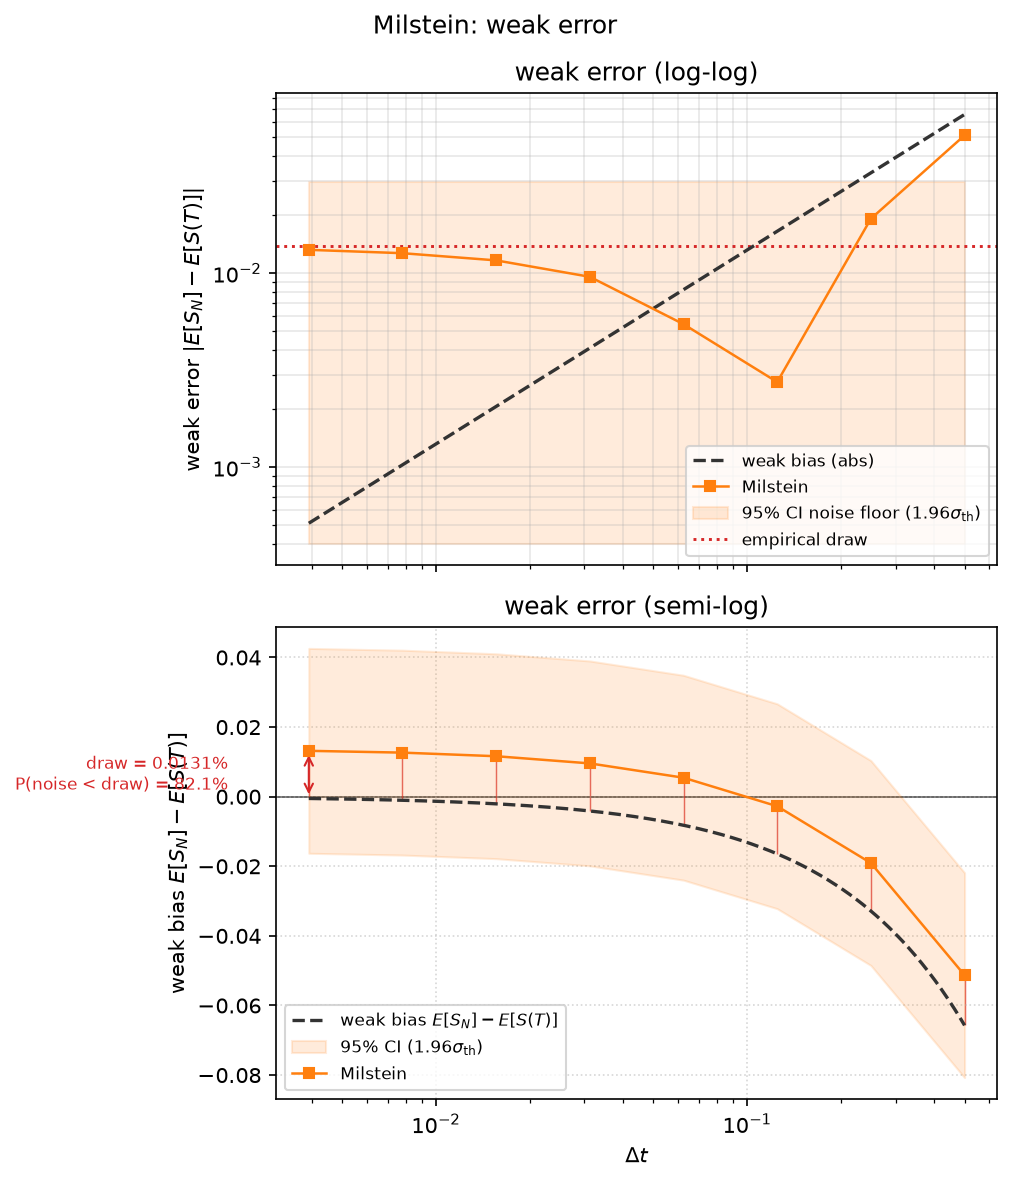
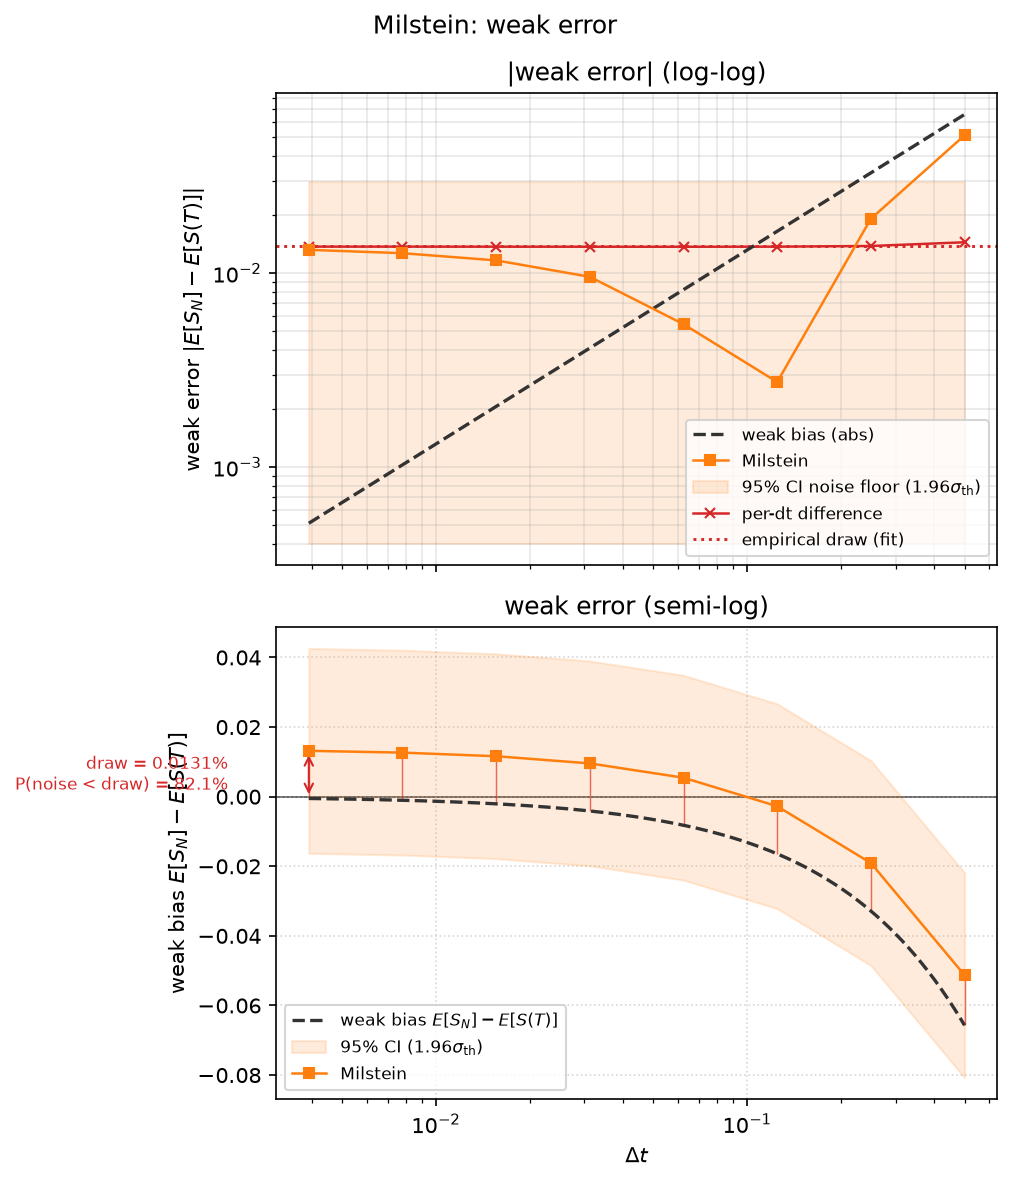
minor changes on exp1 plot logic

Changed region(s): [[0.6739, 0.3347, 0.9802, 0.4565], [0.6433, 0.0304, 0.7658, 0.0913]]

diff --git a/code/visualizations/weak_convergence.py b/code/visualizations/weak_convergence.py
@@ -20,9 +20,13 @@ expression) keeps the bias a clean power law on the semi-log and log-log axes.
 
 The table's sample means ``S_N`` sit a random offset above this curve; because one
 shared Brownian motion drives every step size (the ``extract_dw`` coarsening), that
-offset is essentially a single draw of the Monte-Carlo error, reported as a
-percentage of ``S_T`` ("% draw"). The 95% confidence interval instead uses the
-*theoretical* standard deviation of the sample-mean estimator,
+offset is essentially a single draw of the Monte-Carlo error. Rather than collapse
+it to one scalar, the difference ``b_obs(dt) - b(dt)`` is evaluated at every step
+size, projected onto the log-log axis and connected; a horizontal line is then
+fitted through it (least squares in log space, i.e. the geometric mean of
+``|resid|``), and that fitted level is the reported draw, given as a percentage of
+``S_T`` ("% draw"). The 95% confidence interval instead uses the *theoretical*
+standard deviation of the sample-mean estimator,
 
     sigma_th  = sqrt(Var(S(T))) / sqrt(n_paths),
     Var(S(T)) = S0^2 exp(2 mu T) (exp(sigma^2 T) - 1),
@@ -36,7 +40,8 @@ Outputs, for each scheme (Euler-Maruyama, Milstein), three figures to
     * ``exp1_gbm_weak_semilog_<method>.png``  -- weak error on a semi-log
       (log x, linear y) axis, with the 95% CI band and the bias curve;
     * ``exp1_gbm_weak_loglog_<method>.png``   -- |weak error| on a log-log axis,
-      with the 95% CI shaded in the scheme's color and the empirical draw line;
+      with the 95% CI shaded in the scheme's color, the per-dt differences
+      connected, and their horizontal fit (the empirical draw);
     * ``exp1_gbm_weak_combined_<method>.png`` -- the two panels stacked, sharing
       the dt x-axis.
 """
@@ -110,10 +115,18 @@ def theoretical_sigma(S0=S0, mu=MU, sigma=SIGMA, T=T, n_paths=N_PATHS):
     return float(np.sqrt(var / n_paths))
 
 
-def empirical_noise(b_obs, b):
-    """RMS of the observed-minus-bias residual (the single shared MC draw)."""
+def empirical_draw(b_obs, b):
+    """Per-dt Monte-Carlo difference and its log-log horizontal fit.
+
+    ``b_obs(dt) - b(dt)`` is evaluated at every step size; a single shared
+    Brownian motion drives all of them, so they are one MC draw. Projecting the
+    absolute differences onto the log-log axis and fitting a horizontal line
+    (least squares in log space) gives the draw level as the geometric mean of
+    ``|resid|``. Returns ``(resid, draw)``.
+    """
     resid = np.asarray(b_obs) - np.asarray(b)
-    return float(np.sqrt(np.mean(resid ** 2)))
+    draw = float(np.exp(np.mean(np.log(np.abs(resid)))))
+    return resid, draw
 
 
 def prob_noise_less_than(sigma_noise, sigma_th):
@@ -133,7 +146,7 @@ def _bias_curve(dt):
     return dt_fine, weak_bias(dt_fine)
 
 
-def _draw_semilog(ax, dt, b, b_obs, w, name, sigma_noise, S_T):
+def _draw_semilog(ax, dt, b, b_obs, w, name, draw, S_T):
     """Signed weak bias for one scheme on a semi-log (log x, linear y) axis."""
     ax.set_xscale("log")
     ax.axhline(0.0, color="0.3", lw=0.8, zorder=1)
@@ -154,14 +167,15 @@ def _draw_semilog(ax, dt, b, b_obs, w, name, sigma_noise, S_T):
     # The vertical gap to the bias curve is the (single) MC draw, marked in red.
     ax.vlines(dt, b, b_obs, color=NOISE_COLOR, lw=0.7, alpha=0.7, zorder=1)
 
-    # Annotate the draw at the finest step, where the bias curve is ~ 0.
+    # Annotate the fitted draw at the finest step, where the bias curve is ~ 0
+    # (there the gap to the observed mean equals the draw).
     xi = dt[-1]
     y_bot = b[-1]
     y_top = b_obs[-1]
     ax.annotate("", xy=(xi, y_bot), xytext=(xi, y_top),
                 arrowprops=dict(arrowstyle="<->", color=NOISE_COLOR, lw=1.0))
-    pct = 100.0 * sigma_noise / S_T
-    p_less = 100.0 * prob_noise_less_than(sigma_noise, w / Z)
+    pct = 100.0 * draw / S_T
+    p_less = 100.0 * prob_noise_less_than(draw, w / Z)
     ax.text(xi * 0.55, 0.5 * (y_bot + y_top),
             "draw = %.4f%%\nP(noise < draw) = %.1f%%" % (pct, p_less),
             fontsize="small", ha="right", va="center", color=NOISE_COLOR)
@@ -171,8 +185,9 @@ def _draw_semilog(ax, dt, b, b_obs, w, name, sigma_noise, S_T):
     ax.legend(fontsize="small", loc="best")
 
 
-def _draw_loglog(ax, dt, b_obs, w, name, sigma_noise):
-    """|weak error| for one scheme on a log-log axis, CI shaded, draw line red."""
+def _draw_loglog(ax, dt, b_obs, resid, w, name, draw):
+    """|weak error| on a log-log axis: CI shaded, per-dt differences connected,
+    and their horizontal fit as the empirical draw."""
     c = COLORS[name]
 
     # Continuous leading-order |bias| curve, densely sampled for smoothness.
@@ -187,42 +202,45 @@ def _draw_loglog(ax, dt, b_obs, w, name, sigma_noise):
     ax.fill_between(dt, y_bottom, w, color=c, alpha=0.15, zorder=1,
                     label=r"95% CI noise floor ($1.96\sigma_{\mathrm{th}}$)")
 
-    # Empirical noise level (the single draw) as a red line, not the CI sigma.
-    ax.axhline(sigma_noise, color=NOISE_COLOR, ls=":", lw=1.4, zorder=2,
-               label="empirical draw")
+    # Per-dt differences projected onto the log-log axis: connect the dots, then
+    # fit a horizontal line through them -- the empirical draw level.
+    ax.loglog(dt, np.abs(resid), marker="x", ls="-", lw=1.2, ms=5,
+              color=NOISE_COLOR, zorder=2, label="per-dt difference")
+    ax.axhline(draw, color=NOISE_COLOR, ls=":", lw=1.4, zorder=2,
+               label="empirical draw (fit)")
 
     ax.set_ylabel(r"weak error $|E[S_N]-E[S(T)]|$")
     ax.grid(True, which="both", alpha=0.3)
     ax.legend(fontsize="small", loc="best")
 
 
-def plot_semilog(dt, b, b_obs, w, name, sigma_noise, S_T, figsize=(7, 5)):
+def plot_semilog(dt, b, b_obs, w, name, draw, S_T, figsize=(7, 5)):
     """Standalone semi-log (log x, linear y) weak-convergence plot."""
     fig, ax = plt.subplots(figsize=figsize)
-    _draw_semilog(ax, dt, b, b_obs, w, name, sigma_noise, S_T)
+    _draw_semilog(ax, dt, b, b_obs, w, name, draw, S_T)
     ax.set_xlabel(r"$\Delta t$")
     ax.set_title(f"{name}: weak error (semi-log)")
     return fig, ax
 
 
-def plot_loglog(dt, b_obs, w, name, sigma_noise, figsize=(7, 5)):
+def plot_loglog(dt, b_obs, resid, w, name, draw, figsize=(7, 5)):
     """Standalone log-log weak-convergence plot."""
     fig, ax = plt.subplots(figsize=figsize)
-    _draw_loglog(ax, dt, b_obs, w, name, sigma_noise)
+    _draw_loglog(ax, dt, b_obs, resid, w, name, draw)
     ax.set_xlabel(r"$\Delta t$")
-    ax.set_title(f"{name}: weak error (log-log)")
+    ax.set_title(f"{name}: |weak error| (log-log)")
     return fig, ax
 
 
-def plot_combined(dt, b, b_obs, w, name, sigma_noise, S_T, figsize=(7, 8)):
+def plot_combined(dt, b, b_obs, resid, w, name, draw, S_T, figsize=(7, 8)):
     """Integrated top-bottom plot: log-log on top, semi-log below, sharing dt."""
     fig, axes = plt.subplots(2, 1, sharex=True, figsize=figsize)
     ax_top, ax_bottom = axes
 
-    _draw_loglog(ax_top, dt, b_obs, w, name, sigma_noise)
-    ax_top.set_title("weak error (log-log)")
+    _draw_loglog(ax_top, dt, b_obs, resid, w, name, draw)
+    ax_top.set_title("|weak error| (log-log)")
 
-    _draw_semilog(ax_bottom, dt, b, b_obs, w, name, sigma_noise, S_T)
+    _draw_semilog(ax_bottom, dt, b, b_obs, w, name, draw, S_T)
     ax_bottom.set_title("weak error (semi-log)")
     ax_bottom.set_xlabel(r"$\Delta t$")
 
@@ -243,7 +261,9 @@ def main():
 
     S_N = {"Euler-Maruyama": S_N_EM, "Milstein": S_N_Mil}
     b_obs = {name: S_N[name] - S_T for name in METHODS}
-    sigma_noise = {name: empirical_noise(b_obs[name], b) for name in METHODS}
+    resid, draw = {}, {}
+    for name in METHODS:
+        resid[name], draw[name] = empirical_draw(b_obs[name], b)
 
     os.makedirs(FIGURES_DIR, exist_ok=True)
 
@@ -251,11 +271,12 @@ def main():
         slug = METHOD_SLUGS[name]
         outputs = {
             f"exp1_gbm_weak_semilog_{slug}.png":
-                plot_semilog(dt, b, b_obs[name], w, name, sigma_noise[name], S_T),
+                plot_semilog(dt, b, b_obs[name], w, name, draw[name], S_T),
             f"exp1_gbm_weak_loglog_{slug}.png":
-                plot_loglog(dt, b_obs[name], w, name, sigma_noise[name]),
+                plot_loglog(dt, b_obs[name], resid[name], w, name, draw[name]),
             f"exp1_gbm_weak_combined_{slug}.png":
-                plot_combined(dt, b, b_obs[name], w, name, sigma_noise[name], S_T),
+                plot_combined(dt, b, b_obs[name], resid[name], w, name,
+                              draw[name], S_T),
         }
         for fname, (fig, _) in outputs.items():
             fig.tight_layout()
@@ -267,10 +288,10 @@ def main():
     print("theoretical sigma  sigma_th = %.4f" % sigma_th)
     print("95%% CI half-width  1.96 * sigma_th = %.4f" % w)
     for name in METHODS:
-        pct = 100.0 * sigma_noise[name] / S_T
-        p_less = 100.0 * prob_noise_less_than(sigma_noise[name], sigma_th)
+        pct = 100.0 * draw[name] / S_T
+        p_less = 100.0 * prob_noise_less_than(draw[name], sigma_th)
         print("%-16s empirical draw = %.4f  (%.4f%% of S_T), "
-              "P(noise < draw) = %.1f%%" % (name, sigma_noise[name], pct, p_less))
+              "P(noise < draw) = %.1f%%" % (name, draw[name], pct, p_less))
 
 
 if __name__ == "__main__":
